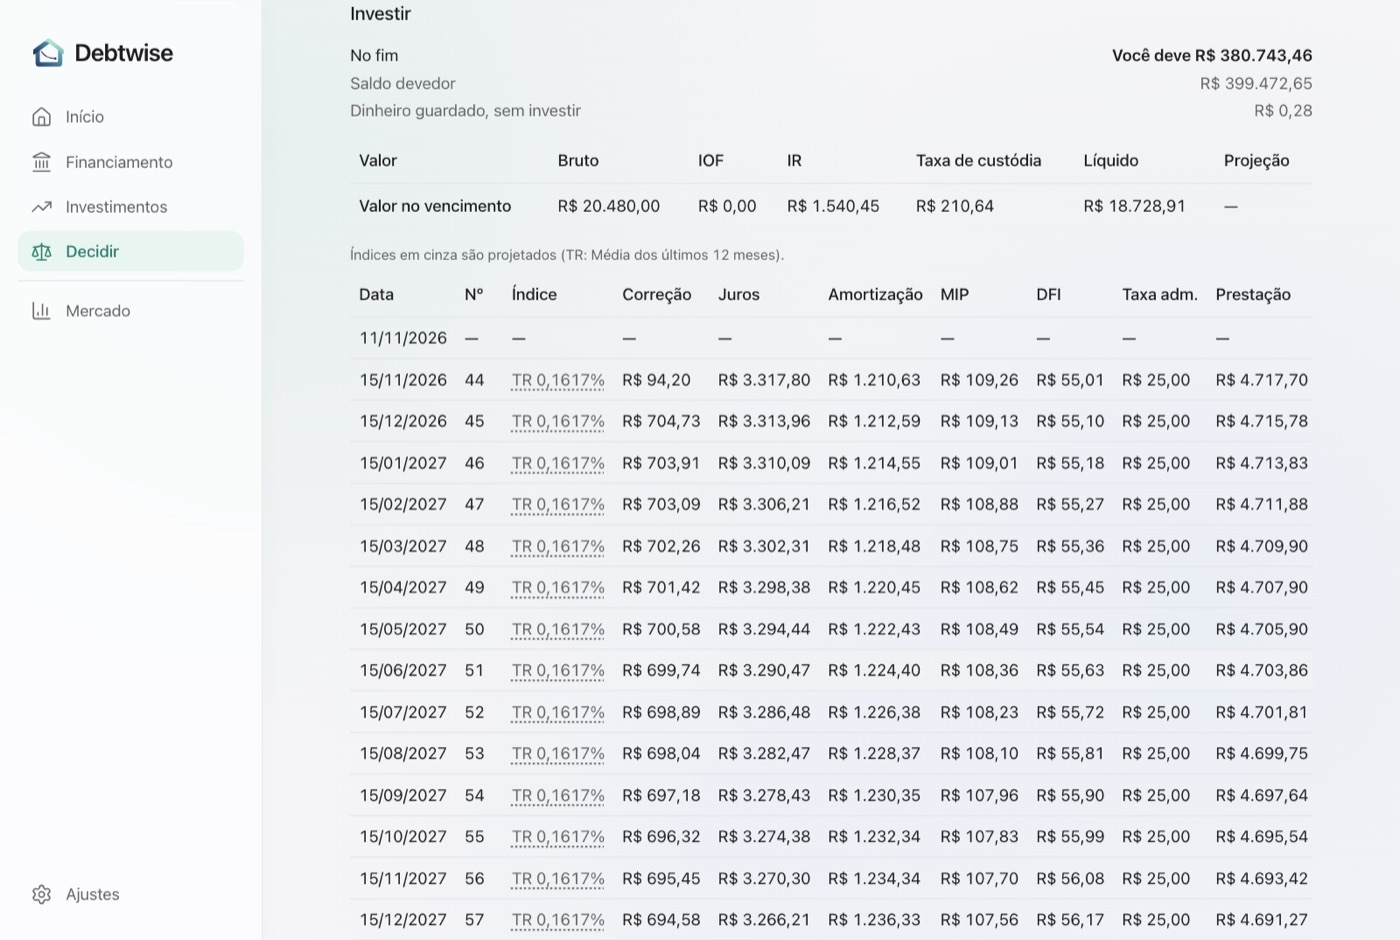
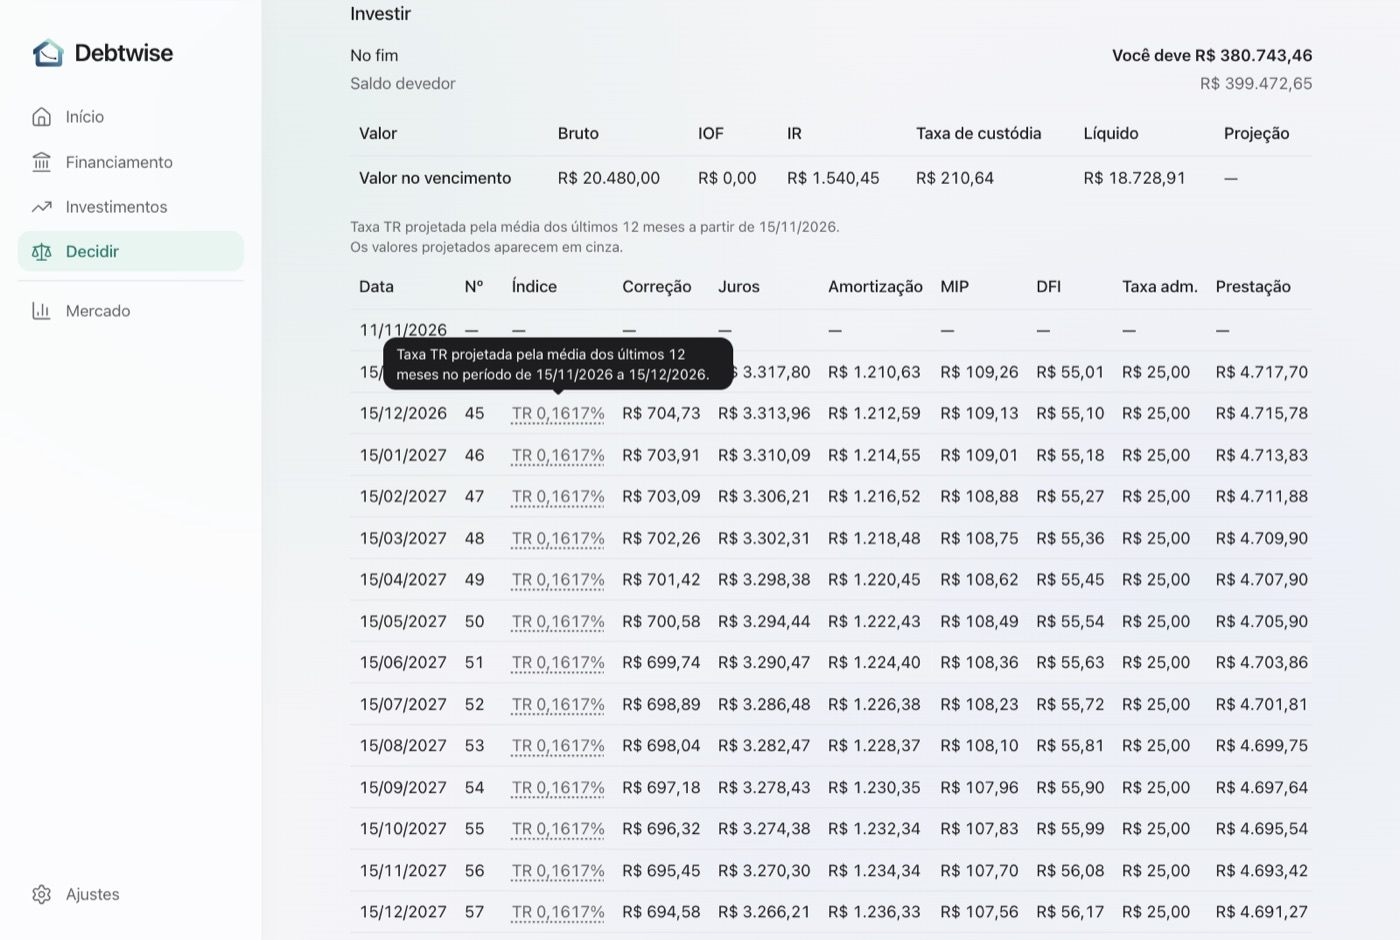
docs(design): keep the change sheet's actions, plainer projection notes
Variant B drops the trash icon: the change sheet keeps "Cancelar" in
its header and the labelled "Remover mudança". "Ver cenários" leaves out
the few reais held uninvested and says how each index is projected in a
plain sentence, once above the table and per reading in its tooltip.

diff --git a/frontend/src/prototypes/ProtoScenarioDetails.tsx b/frontend/src/prototypes/ProtoScenarioDetails.tsx
@@ -1,7 +1,8 @@
 // PROTOTYPE, throwaway: "Ver cenários" in "Orvalho nítido".
-// - The horizon reads in words, without negative amounts: "No fim, você deve R$ 380.743,46".
-// - A projected index reads as its value in grey; its period and projection method sit in a
-//   tooltip and, once, above the table, instead of three lines repeated on every row.
+// - The horizon reads in words, without negative amounts: "No fim, você deve R$ 380.743,46". The
+//   few reais held uninvested are left out.
+// - A projected index reads as its value in grey; one plain sentence above the table says how and
+//   from when it is projected, and a tooltip names each reading's period.
 // - Columns with nothing in them for this scenario are left out.
 import type { ReactNode } from "react";
 import { AmountRow, AmountsHeader } from "@/components/lots/LotValuesTables";
@@ -14,10 +15,16 @@ import {
   TableRow,
 } from "@/components/ui/table";
 import { Tooltip, TooltipContent, TooltipProvider, TooltipTrigger } from "@/components/ui/tooltip";
-import type { CashFlow, CorrectionIndex, LotAmount, ProjectedBy, Scenario } from "@/lib/api";
+import type {
+  CashFlow,
+  CorrectionIndex,
+  IndexName,
+  LotAmount,
+  ProjectionMethodName,
+  Scenario,
+} from "@/lib/api";
 import { formatDate, formatMonth, formatMoney, formatPercent, formatPeriod } from "@/lib/format";
 import { indexNames } from "@/lib/indexNames";
-import { projectedByText } from "@/lib/projectionMethods";
 
 function bondPayment({
   sold,
@@ -28,6 +35,25 @@ function bondPayment({
   if (coupon) return { kind: "Cupom", amount: coupon };
   if (redeemed) return { kind: "Resgate", amount: redeemed };
   return undefined;
+}
+
+const projectedIndex: Record<IndexName, string> = {
+  tr: "Taxa TR projetada",
+  poupanca_yield: "Remuneração da poupança projetada",
+  selic_target: "Selic meta projetada",
+  selic: "Selic diária projetada",
+  ipca: "IPCA projetado",
+  ipca_number: "IPCA projetado",
+};
+
+const byMethod: Record<ProjectionMethodName, string> = {
+  trailing_12: "pela média dos últimos 12 meses",
+  trailing_60: "pela média dos últimos 60 meses",
+  focus: "pela mediana do Focus (BCB)",
+};
+
+function methodOf(value: CorrectionIndex): ProjectionMethodName | undefined {
+  return (value.methods.find((m) => m.index === value.index) ?? value.methods[0])?.method;
 }
 
 function period({ index, period_start, period_end }: CorrectionIndex): string {
@@ -50,7 +76,8 @@ function IndexValue({ value }: { value: CorrectionIndex }) {
       </TooltipTrigger>
       <TooltipContent side="top">
         <span>
-          Projetado para {period(value)}. {projectedByText(value.methods)}.
+          {projectedIndex[value.index]} {byMethod[methodOf(value) ?? "trailing_12"]} no período de{" "}
+          {period(value)}.
         </span>
       </TooltipContent>
     </Tooltip>
@@ -99,23 +126,27 @@ function ProtoCashFlowTable({ label, flows }: { label: string; flows: CashFlow[]
       return value !== undefined && !(typeof value === "string" && ZERO.test(value));
     }),
   );
-  const projected: ProjectedBy[] = [];
+  // The first projected reading of each index, which says from when its projection runs.
+  const projected = new Map<IndexName, CorrectionIndex>();
   for (const flow of flows) {
     for (const value of flow.installment?.index_values ?? []) {
-      if (value.status !== "projected") continue;
-      for (const method of value.methods) {
-        if (!projected.some((m) => m.index === method.index && m.method === method.method))
-          projected.push(method);
-      }
+      if (value.status === "projected" && !projected.has(value.index))
+        projected.set(value.index, value);
     }
   }
   return (
     <TooltipProvider>
       <div className="flex flex-col gap-2">
-        {projected.length > 0 && (
-          <p className="text-footnote text-muted-foreground">
-            Índices em cinza são projetados ({projectedByText(projected)}).
-          </p>
+        {projected.size > 0 && (
+          <div className="text-footnote text-muted-foreground">
+            {[...projected.values()].map((value) => (
+              <p key={value.index}>
+                {projectedIndex[value.index]} {byMethod[methodOf(value) ?? "trailing_12"]} a partir
+                de {formatDate(value.period_start)}.
+              </p>
+            ))}
+            <p>Os valores projetados aparecem em cinza.</p>
+          </div>
         )}
         <Table aria-label={`Fluxo de caixa de ${label}`}>
           <TableHeader>
@@ -149,7 +180,6 @@ function standing(netWorth: string): string {
 }
 
 export function ProtoScenarioDetails({ title, scenario }: { title: string; scenario: Scenario }) {
-  const cash = Number(scenario.cash);
   return (
     <section aria-label={title} className="flex flex-col gap-4">
       <h4 className="font-medium">{title}</h4>
@@ -162,12 +192,6 @@ export function ProtoScenarioDetails({ title, scenario }: { title: string; scena
           <dt>Saldo devedor</dt>
           <dd>{formatMoney(scenario.outstanding_balance)}</dd>
         </div>
-        {cash > 0 && (
-          <div className="flex justify-between gap-4 text-muted-foreground">
-            <dt>Dinheiro guardado, sem investir</dt>
-            <dd>{formatMoney(scenario.cash)}</dd>
-          </div>
-        )}
       </dl>
       {scenario.bond && (
         <Table aria-label={`Valor no vencimento de ${title}`}>

diff --git a/frontend/src/pages/contract/ChangeSheet.tsx b/frontend/src/pages/contract/ChangeSheet.tsx
@@ -13,7 +13,6 @@ import {
 import type { Basis, ContractRateRow, FeeRow, MonthlyRateRow } from "@/lib/mortgageForm";
 import type { Change, ChangeList, InsuranceList } from "@/pages/contract/changes";
 import { usePrototypeVariant } from "@/prototypes/variant";
-import { Trash2Icon } from "lucide-react";
 
 /** The insurance a new change belongs to, which only a new change can still switch. */
 export interface InsuranceChoice {
@@ -174,7 +173,6 @@ function ChangeFields({ change, update, messageOf, firstCharge }: ChangeSheetPro
 /** ChangeSheet edits one dated change of a list over the page, until "Concluir" or "Cancelar". */
 export function ChangeSheet(props: ChangeSheetProps) {
   const { change, update, messageOf, insurance, firstCharge, onDone, onRemove, onCancel } = props;
-  const proto = usePrototypeVariant() !== "A";
   return (
     <Dialog open onOpenChange={(open) => open || onCancel()}>
       <DialogContent aria-describedby={undefined}>
@@ -222,33 +220,11 @@ export function ChangeSheet(props: ChangeSheetProps) {
             <ChangeFields {...props} />
           </GroupedList>
           <DialogFooter>
-            {proto ? (
-              <div className="flex items-center gap-2">
-                {onRemove && (
-                  <Button
-                    type="button"
-                    variant="plain"
-                    size="icon"
-                    aria-label="Remover mudança"
-                    title="Remover mudança"
-                    onClick={onRemove}
-                  >
-                    <Trash2Icon aria-hidden="true" strokeWidth={1.75} />
-                  </Button>
-                )}
-                <Button type="submit" className="flex-1">
-                  Concluir
-                </Button>
-              </div>
-            ) : (
-              <>
-                <Button type="submit">Concluir</Button>
-                {onRemove && (
-                  <Button type="button" variant="destructive" onClick={onRemove}>
-                    Remover mudança
-                  </Button>
-                )}
-              </>
+            <Button type="submit">Concluir</Button>
+            {onRemove && (
+              <Button type="button" variant="destructive" onClick={onRemove}>
+                Remover mudança
+              </Button>
             )}
           </DialogFooter>
         </form>

diff --git a/docs/design-exploration/README.md b/docs/design-exploration/README.md
@@ -24,7 +24,7 @@ The column ledger (C) is clearer than today's "Ver cenários" but weaker than B 
 | 7 | Investimentos: early-sale signal surfaced, unsigned wording | Objective (contrast) + hypothesis | The most actionable fact on the page is no longer its smallest text | S | **Adopt** |
 | 8 | Shell skeleton while the app starts | Objective (blank screen) | No blank canvas on a slow start | S | **Adopt** |
 | 9 | System font first (SF Pro on Apple devices) | Hypothesis | Closer to a first-party Apple app | S | **Validate** on Windows/Android before adopting |
-| 10 | Round two (P9): one-line key figures, pt-BR date field, values that hug their units, cents, trash icon, quieter scenario tables | Objective (owner-reported) | Dates in the owner's format, figures that don't wrap, tables that read in one line per row | S–M | **Adopt** (date field and tooltip need the production work in P9) |
+| 10 | Round two (P9): one-line key figures, pt-BR date field, values that hug their units, cents, quieter scenario tables | Objective (owner-reported) | Dates in the owner's format, figures that don't wrap, tables that read in one line per row | S–M | **Adopt** (date field and tooltip need the production work in P9) |
 
 ## How the evidence was gathered
 
@@ -336,22 +336,22 @@ These came from the owner's review of the first round. Each is fixed in B and co
 | Quirk | Cause | B | Measured |
 |---|---|---|---|
 | Financiamento's "Quitação prevista" wraps ("novembro de / 2056") | three equal `1fr` columns of 253px, while the month needs 290px | columns are as wide as their figure (`minmax(max-content, 1fr)`) and never wrap. The panel stacks only when the content column is narrower than 840px (a container query instead of the 1160px viewport breakpoint) | figure height 82px → 41px at 1280px; the full month is kept, nothing abbreviated (`before-q-keyfigures-A.jpg`, `after-q-keyfigures-B.jpg`) |
-| "Ver cenários" shows "−R$ 380.743,46" | the net worth is signed, and the mortgage makes it negative | "No fim: Você deve R$ 380.743,46", then the balance and cash in hand when there is any | negative amounts on the panel: 2 → 0 |
-| The index cell repeats "Projetado", the period and the method on every row | `IndexCell` shows everything a reading has | the value alone ("TR 0,1617%"), grey when projected, with the period and method in a tooltip on hover or focus, and the method stated once above the table | row height 74px → 38px; columns 21 → 18 (columns empty for the whole scenario are dropped); table width 2325px → 1805px (`before-q-cenarios-A.jpg`, `after-q-cenarios-B.jpg`, `after-q-cenarios-tooltip-B.jpg`) |
+| "Ver cenários" shows "−R$ 380.743,46" | the net worth is signed, and the mortgage makes it negative | "No fim: Você deve R$ 380.743,46", then the balance. The few reais held uninvested ("Caixa retido", R$ 0,28–1,09 here) are left out as noise | negative amounts on the panel: 2 → 0 |
+| The index cell repeats "Projetado", the period and the method on every row | `IndexCell` shows everything a reading has | the value alone ("TR 0,1617%"), grey when projected. One plain sentence above the table: "Taxa TR projetada pela média dos últimos 12 meses a partir de 15/11/2026. Os valores projetados aparecem em cinza." The tooltip says the same for one reading: "…no período de 15/11/2026 a 15/12/2026." | row height 74px → 38px; columns 21 → 18 (columns empty for the whole scenario are dropped); table width 2325px → 1805px (`before-q-cenarios-A.jpg`, `after-q-cenarios-B.jpg`) |
 | Dates read "04/15/2023" | `<input type="date">` writes dates in the **browser's** language, whatever the page's language. An English system shows mm/dd/yyyy | a dd/mm/aaaa text field with a numeric keyboard and a calendar button that still opens the native picker | the same in every browser language (`after-q-contrato-B.jpg`) |
 | Values misaligned; "R$" far from the amount | every inline input is a fixed 144px box with right-aligned text, so a prefix sits at the box's left edge; date inputs lay out their own segments | inputs are as wide as their text (`field-sizing: content`), so value and units form one group on the row's trailing edge | gap between "R$" and the amount on Contrato: 74px → 6px; every value group ends 16px from the row edge (`before-q-contrato-A.jpg`, `after-q-contrato-B.jpg`) |
 | Money without cents ("480.000") | the form keeps what the API sends or the owner types | money fields show two places when not being edited and complete them on focus and blur ("480.000,00") | — |
-| The change sheet's hint wraps; "Remover mudança" is a full-width tinted button competing with "Concluir" | long hint beside a 144px input; the destructive action styled as a second primary | the hint is "Para calcular a taxa.", since the label already names the amount. The header keeps "Cancelar" as its only action; removal is a grey 44px trash icon left of "Concluir" (accessible name "Remover mudança") | hint 2 lines → 1 line at 1280px and 390px; footer buttons 2 → 1 plus the icon (`before-q-changesheet-A.jpg`, `after-q-changesheet-B.jpg`, `after-q-changesheet-B-390.jpg`) |
+| The change sheet's hint wraps | long hint beside a 144px input | the hint is "Para calcular a taxa.", since the label already names the amount | hint 2 lines → 1 line at 1280px and 390px (`before-q-changesheet-A.jpg`, `after-q-changesheet-B.jpg`) |
 
 **Checked by hand:**
 - Typing "01052023" gives 01/05/2023, and the row updates on "Concluir".
-- The trash icon removes the change.
-- The page's "Cancelar" discards both; the server's MIP rates were unchanged afterwards.
+- The change sheet keeps its current actions.
+- The page's "Cancelar" discards the edit; the server's MIP rates were unchanged afterwards.
 - The tooltip opens on keyboard focus.
 - Contrato stays at scrollWidth 390 on a phone.
 
 **Tradeoffs and open points:**
-- **Trash icon:** in a first pass the icon sat red in the header beside "Cancelar". The owner rejected both: two header actions, and red drawing the eye to the least common action. It is now grey (`#636366`, 5.9:1 on white) in the footer, while "Cancelar" stays the one header action and the only visible way out without changes. An icon-only destructive action is less discoverable than a labelled one. That is acceptable here because the page's "Cancelar" undoes a removal until "Salvar". For deletions that save at once (a prepayment, a lot), keep the labelled confirmation.
+- **Removing a change:** two alternatives were tried and dropped. A red trash icon in the header beside "Cancelar" put two actions there and made the least common one the loudest. A grey trash icon beside "Concluir" was quieter but no clearer than the labelled button. The sheet keeps today's "Cancelar" in the header and the labelled "Remover mudança" under "Concluir".
 - **Touch:** Radix tooltips don't open on touch, so a phone can't see a projected reading's period. A tap-to-open popover is the fix if this is adopted. The method is still stated above the table.
 - **Date field:** the prototype selects the whole date on focus and starts over when typed past; editing one digit in the middle isn't handled. A production version should validate impossible dates (31/02) in the browser, not only on the server.
 - **Firefox:** `field-sizing: content` isn't supported there yet. Inputs fall back to their fixed width, which is today's look.
@@ -383,7 +383,6 @@ The specification itself isn't edited here. If the recommendations are adopted, 
   - Typed values hug their text, so value and units share the row's trailing edge.
   - Dates are typed as dd/mm/aaaa regardless of the browser's language.
   - Money shows two decimal places.
-  - In change sheets, "Cancelar" is the header's one action, and removal is a grey trash icon beside "Concluir".
   - A projected index reads grey with its period and method on demand.
   - Horizons read in words, never as negative amounts.
 - **Voice:** add "near-ties are named as such" and "no signed amounts in prose".
